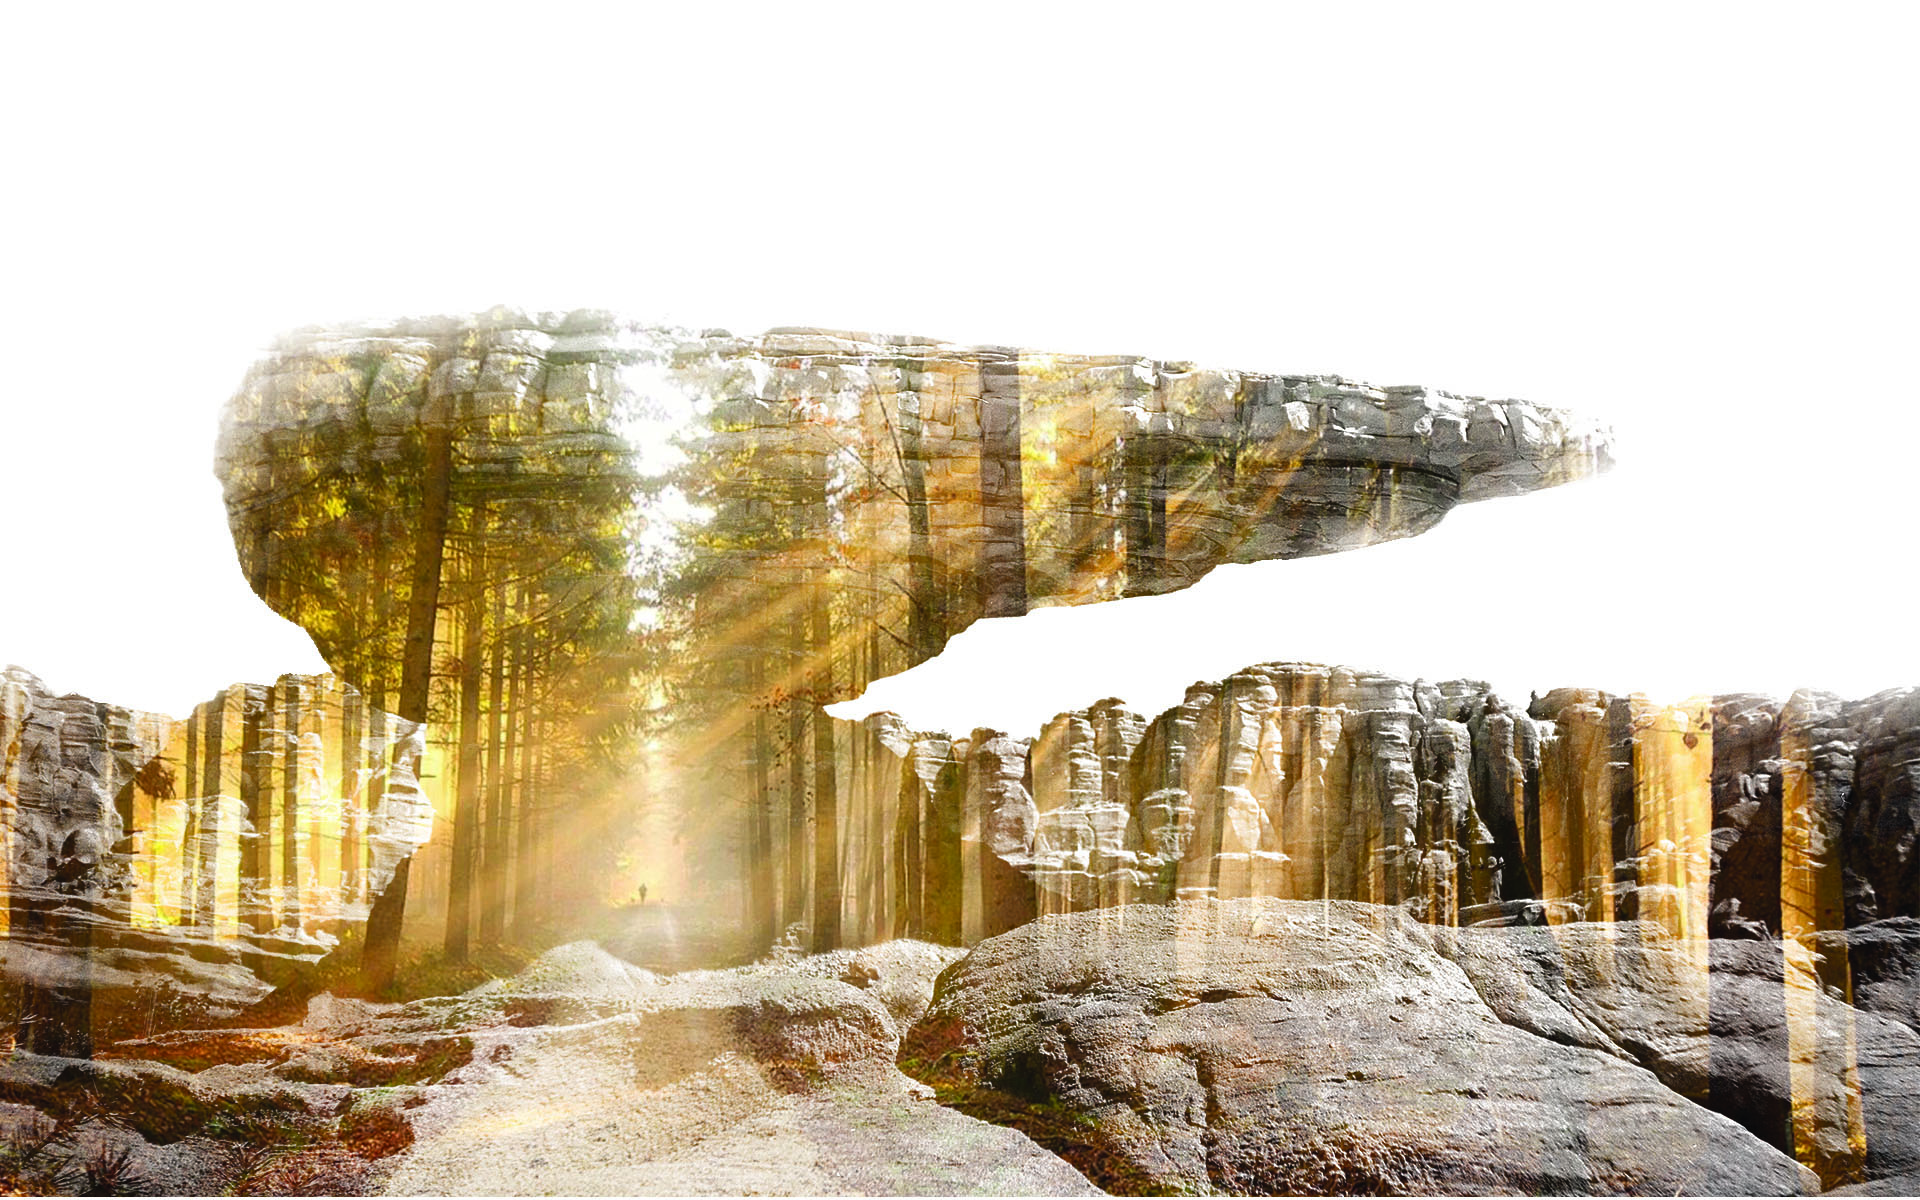
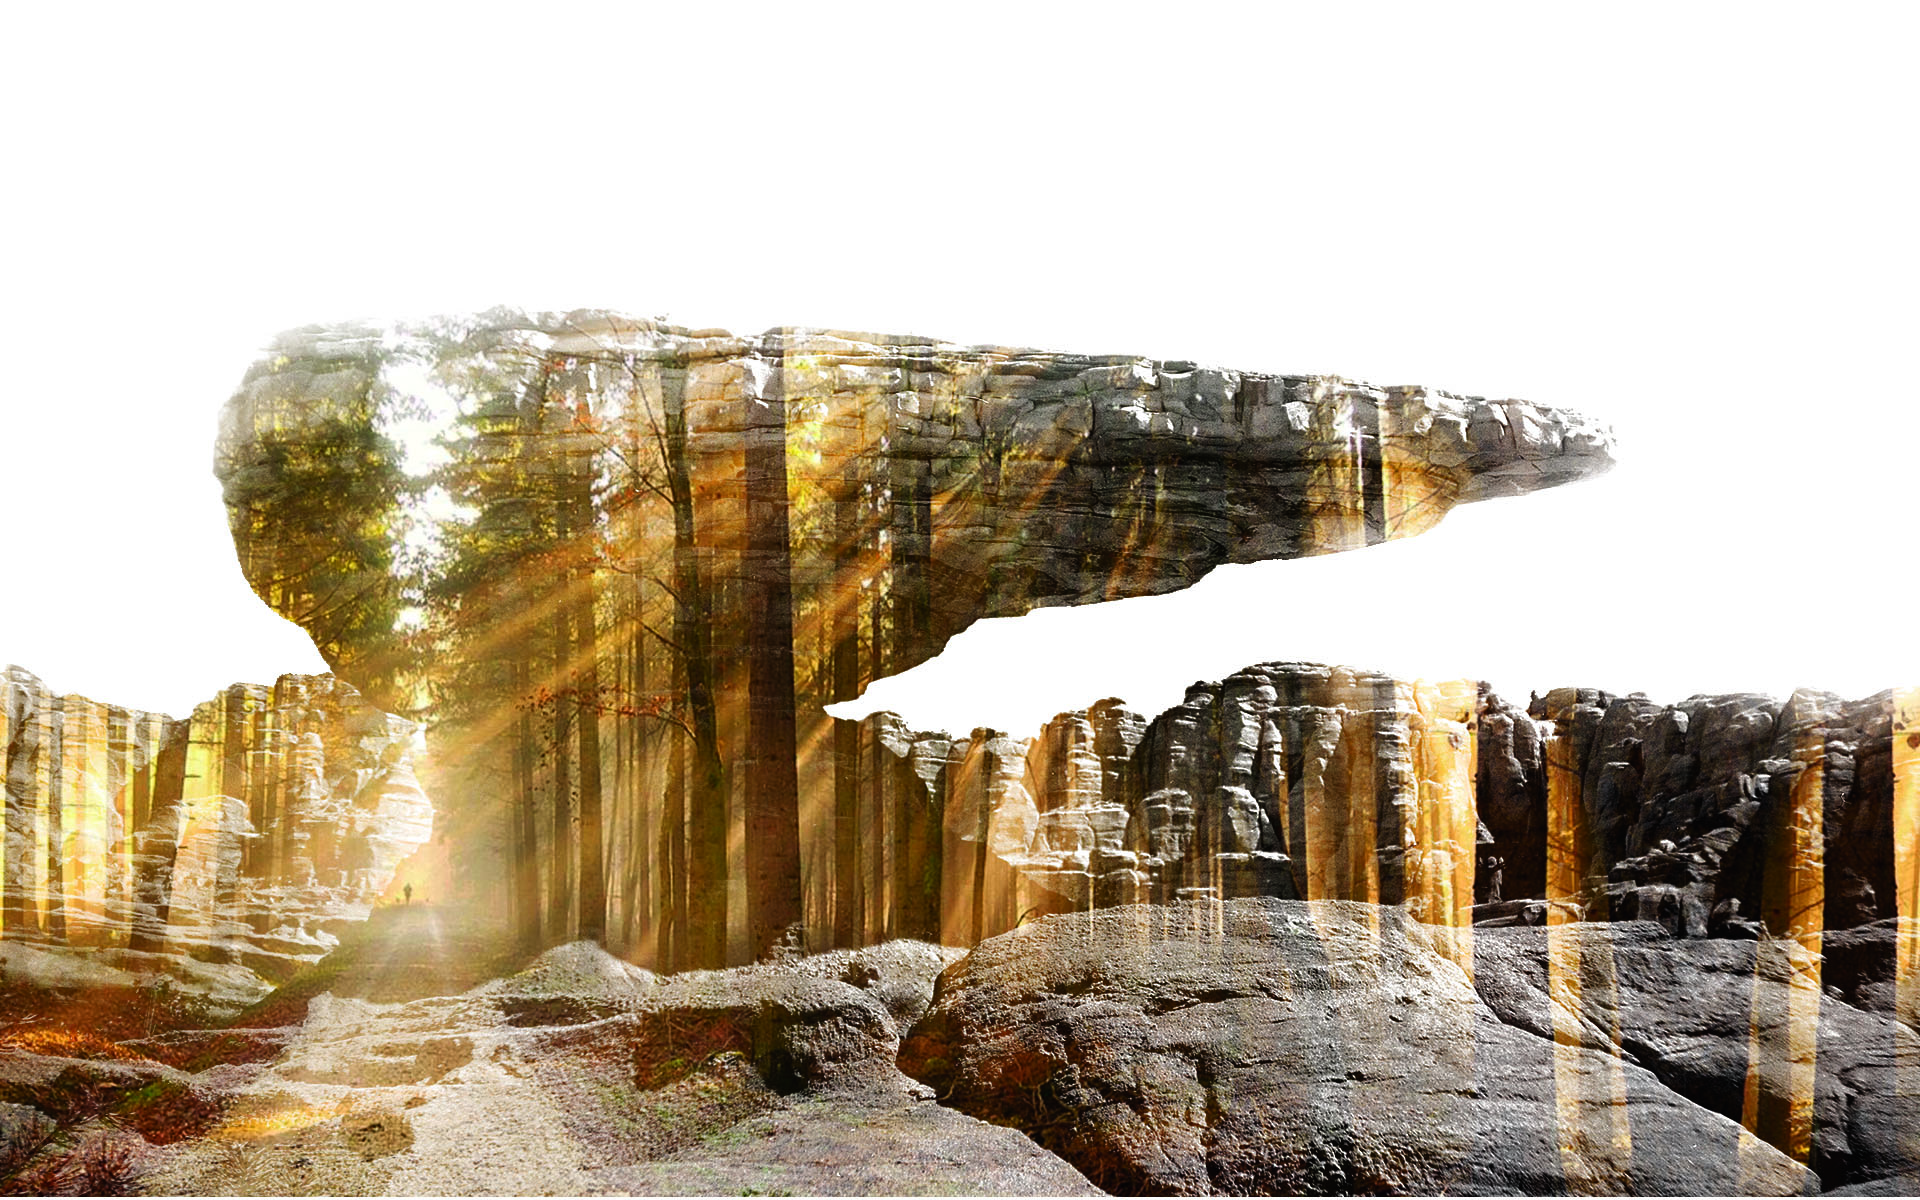
fixed hero img and changed layout

diff --git a/index-text-rotator.html b/index-text-rotator.html
@@ -26,9 +26,9 @@
 
   <!-- Favicons -->
   <link rel="shortcut icon" href="img/favicon.ico">
-  <link rel="apple-touch-icon" href="img/apple-touch-icon.png">
-  <link rel="apple-touch-icon" sizes="72x72" href="img/apple-touch-icon-72x72.png">
-  <link rel="apple-touch-icon" sizes="114x114" href="img/apple-touch-icon-114x114.png">
+  <link rel="apple-touch-icon" href="img/favicon.png">
+  <!-- <link rel="apple-touch-icon" sizes="72x72" href="img/apple-touch-icon-72x72.png">
+  <link rel="apple-touch-icon" sizes="114x114" href="img/apple-touch-icon-114x114.png"> -->
 
 </head>
 
@@ -99,13 +99,10 @@
             <div class="menu-socials hidden-sm hidden-xs">
               <ul>
                 <li>
-                  <a href="#"><i class="fa fa-behance"></i></a>
+                  <a href="https://www.linkedin.com/in/peter-nguyen-22b98325/"><i class="fa fa-linkedin"></i></a>
                 </li>
                 <li>
-                  <a href="#"><i class="fa fa-linkedin"></i></a>
-                </li>
-                <li>
-                  <a href="#"><i class="fa fa-twitter"></i></a>
+                  <a href="https://github.com/P-nguyen"><i class="fa fa-github"></i></a>
                 </li>
               </ul>
             </div>
@@ -130,10 +127,10 @@
             <!-- <h1><span class="rotate">Awesome Features, Creative Design, Amazing Template</span></h1> -->
             <h1><span>Peter Nguyen</span></h1>
             <h2 class="hero-subtitle">Web Developer</h2>
-            <div class="buttons-holder mt-30">
-              <!-- <a href="#" class="btn btn-lg btn-transparent">Learn More</a>
-              <a href="#" class="btn btn-lg btn-white">Purchase it</a> -->
-            </div>
+            <!-- <div class="buttons-holder mt-30">
+              <a href="#" class="btn btn-lg btn-transparent">Learn More</a>
+              <a href="#" class="btn btn-lg btn-white">Purchase it</a>
+            </div> -->
             <div class="local-scroll">
               <a href="#application" class="scroll-down">
                 <i class="fa fa-angle-down"></i>
@@ -225,7 +222,7 @@
         <div class="row heading">
           <div class="col-md-6 col-md-offset-3">
             <h2 class="text-center color-black bottom-line">Technologies</h2>
-            <p class="subheading text-center color-black">languages i've used.</p>
+            <!-- <p class="subheading text-center color-black">languages i've used.</p> -->
           </div>
         </div>
 
@@ -382,7 +379,7 @@
         <div class="row heading sub-heading">
             <div class="col-md-6 col-md-offset-3">
               <h2 class="text-center color-black bottom-line">Tools</h2>
-              <p class="subheading text-center color-black">tools i've used</p>
+              <!-- <p class="subheading text-center color-black">tools i've used</p> -->
             </div>
           </div>
   
@@ -517,8 +514,6 @@
               to realign my interest towards web development. When i'm not programming you can find me building stuff at home with my CNC mill or 3d printer, but even then I might
               be programming my machines to do the job.
             </p>
-
-            <img src="img/intro_logo.png" alt="" />
           </div>
 
         </div>
@@ -561,39 +556,7 @@
       </div>
     </section> <!-- end contact -->
 
-    <!-- Google Map -->
-    <div id="google-map" class="gmap" data-address="V Tytana St, Manila, Philippines"></div>
-
-    <!-- Footer -->
-    <footer class="footer minimal bg-dark">
-      <div class="container">
-        <div class="row">
-
-          <div class="col-md-4 col-md-offset-4">
-            
-            <div class="footer-logo local-scroll mb-30 wow zoomIn" data-wow-duration="1s" data-wow-delay="0.2s">
-              <h2>
-                <a href="#home" class="color-white">Enigma</a>
-              </h2>
-            </div>
-
-            <div class="socials footer-socials">
-              <a href="#"><i class="fa fa-facebook"></i></a>
-              <a href="#"><i class="fa fa-twitter"></i></a>
-              <a href="#"><i class="fa fa-google-plus"></i></a>
-              <a href="#"><i class="fa fa-linkedin"></i></a>
-              <a href="#"><i class="fa fa-behance"></i></a>
-            </div> <!-- end socials -->
-
-            <span class="copyright text-center">
-              ©2015 Enigma  |  Development by <a href="http://deothemes.com/">DeoThemes</a>
-            </span>
-
-          </div>
-
-        </div>
-      </div>
-    </footer> <!-- end footer -->
+    
 
     <div id="back-to-top">
       <a href="#top"><i class="fa fa-angle-up"></i></a>
@@ -608,45 +571,6 @@
   <script type="text/javascript" src="js/gmap3.js"></script>
   <script type="text/javascript" src="js/plugins.js"></script>
   <script type="text/javascript" src="js/scripts.js"></script>
-
-  <!-- Google Map -->
-  <script type="text/javascript">
-    $(document).ready( function(){
-
-      var gmapDiv = $("#google-map");
-      var gmapMarker = gmapDiv.attr("data-address");
-
-      gmapDiv.gmap3({
-        zoom: 16,
-        address: gmapMarker,
-        oomControl: true,
-        navigationControl: true,
-        scrollwheel: false,
-        styles: [
-          {
-          "featureType":"all",
-          "elementType":"all",
-            "stylers":[
-              { "saturation":"-70" }
-            ]
-        }]
-      })
-      .marker({
-        address: gmapMarker,
-        icon: "img/map_pin.png"
-      })
-      .infowindow({
-        content: "V Tytana St, Manila, Philippines"
-      })
-      .then(function (infowindow) {
-        var map = this.get(0);
-        var marker = this.get(1);
-        marker.addListener('click', function() {
-          infowindow.open(map, marker);
-        });
-      });
-    });
-  </script>
 
 </body>
 </html>

diff --git a/css/style.css b/css/style.css
@@ -557,7 +557,7 @@ p {
   -ms-transition: all 1s ease-in-out;
   -o-transition: all 1s ease-in-out;
   transition: all 1s ease-in-out;
-  background-color: #fff;
+  background-color: rgb(236, 236, 236);
   text-decoration: none;
   box-shadow: 1px 1.732px 12px 0px rgba(0, 0, 0, 0.14), 1px 1.732px 3px 0px rgba(0, 0, 0, 0.12);
 }
@@ -2718,10 +2718,12 @@ input.searchbox:focus {
   height: 100%;
   width: 100%;
   text-align: center;
+  position: relative;
+  top: -10%;
 }
 
 .hero-message h1 {
-  color: #333333;
+  color: #fff;
   font-size: 56px;
   font-weight: 700;
   line-height: 1;
@@ -2730,15 +2732,18 @@ input.searchbox:focus {
 .hero-subtitle {
   text-transform: none;
   font-weight: normal;
-  color: #333333;
-  line-height: 1.5;
-  font-size: 20px;
-  max-width: 800px;
-  margin: 24px auto 0;
+  color: #fff;
+  font-size: 2em;
 }
 
 .buttons-holder > a {
   margin: 5px;
+}
+
+@media screen and (max-width: 767px){
+  .hero-subtitle {
+    font-size: 20px;
+  }
 }
 
 /*-------------------------------------------------------*/

diff --git a/css/rev-slider.css b/css/rev-slider.css
@@ -58,7 +58,7 @@ iframe {border: 0;}
   font-size: 20px;
   width: 32px;
   height: 32px;
-  background-color: rgba(100,100,100,.8);
+  background-color: rgba(255,255,255,.8);
   -webkit-border-radius: 50%;
   -moz-border-radius: 50%;
   border-radius: 50%;
@@ -99,7 +99,7 @@ iframe {border: 0;}
 }
 
 .scroll-down i {
-  color: #fff;
+  color: #333;
   -webkit-animation: scroll-down-icon 1s infinite;
   -moz-animation: scroll-down-icon 1s infinite;
   -o-animation: scroll-down-icon 1s infinite;
